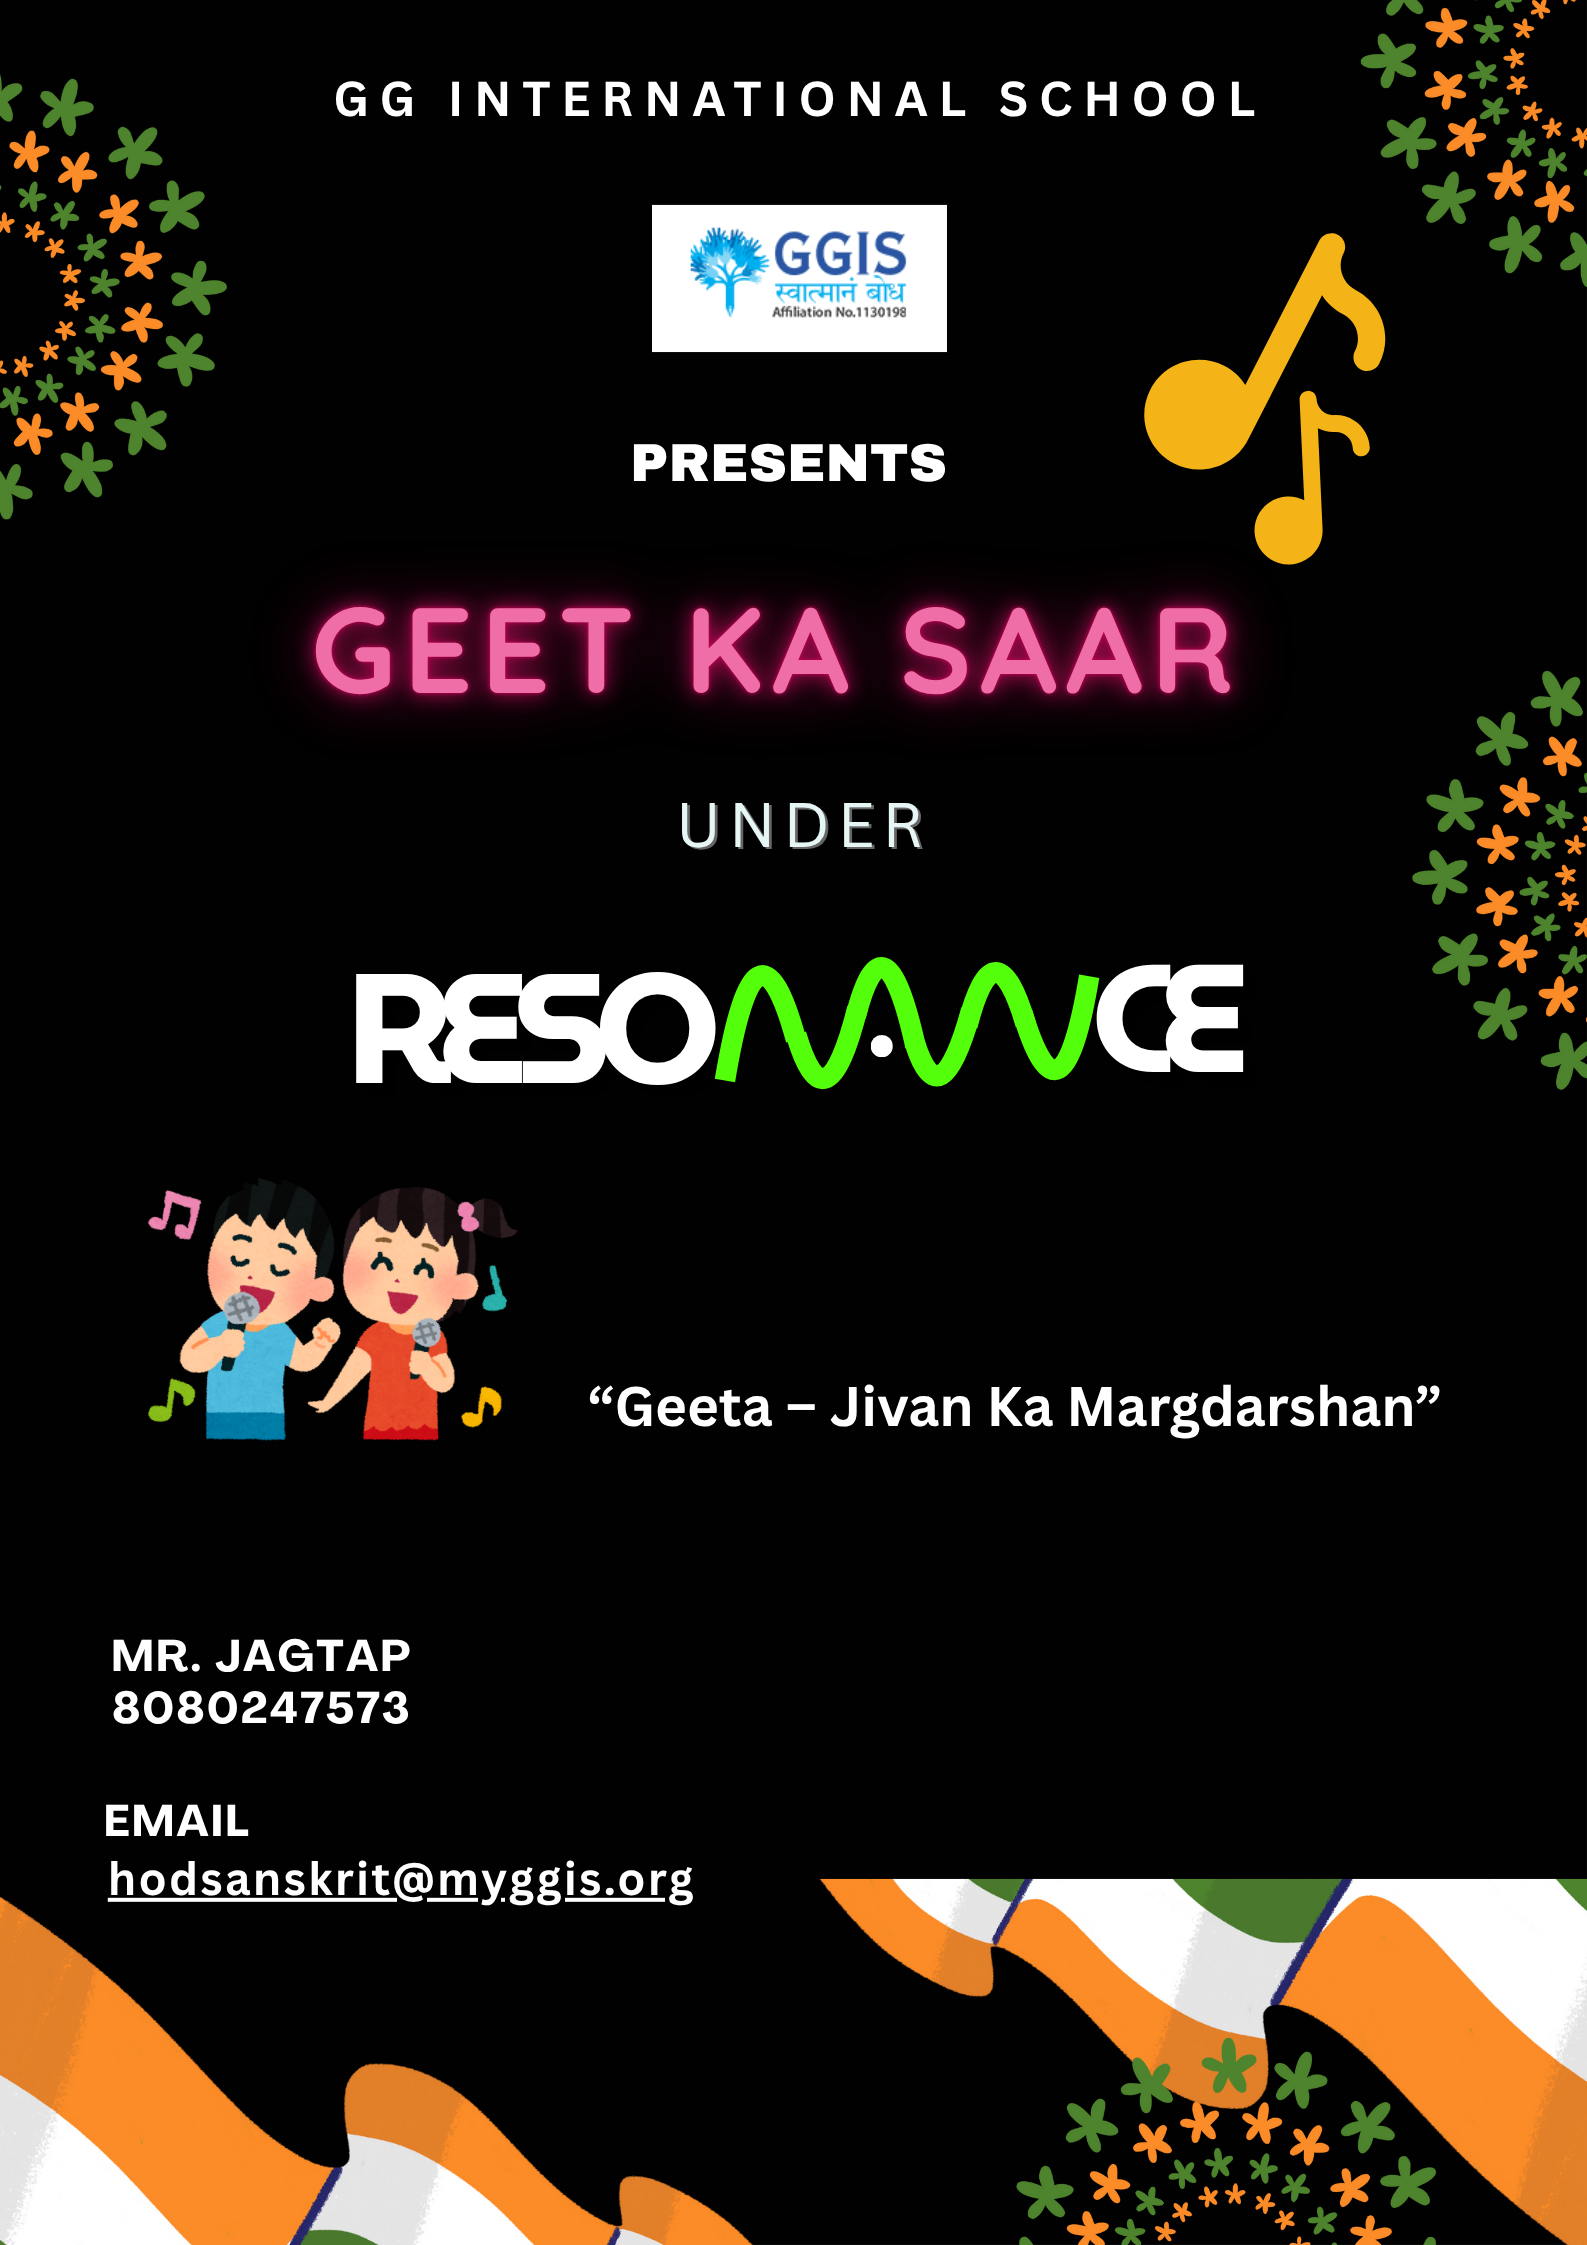
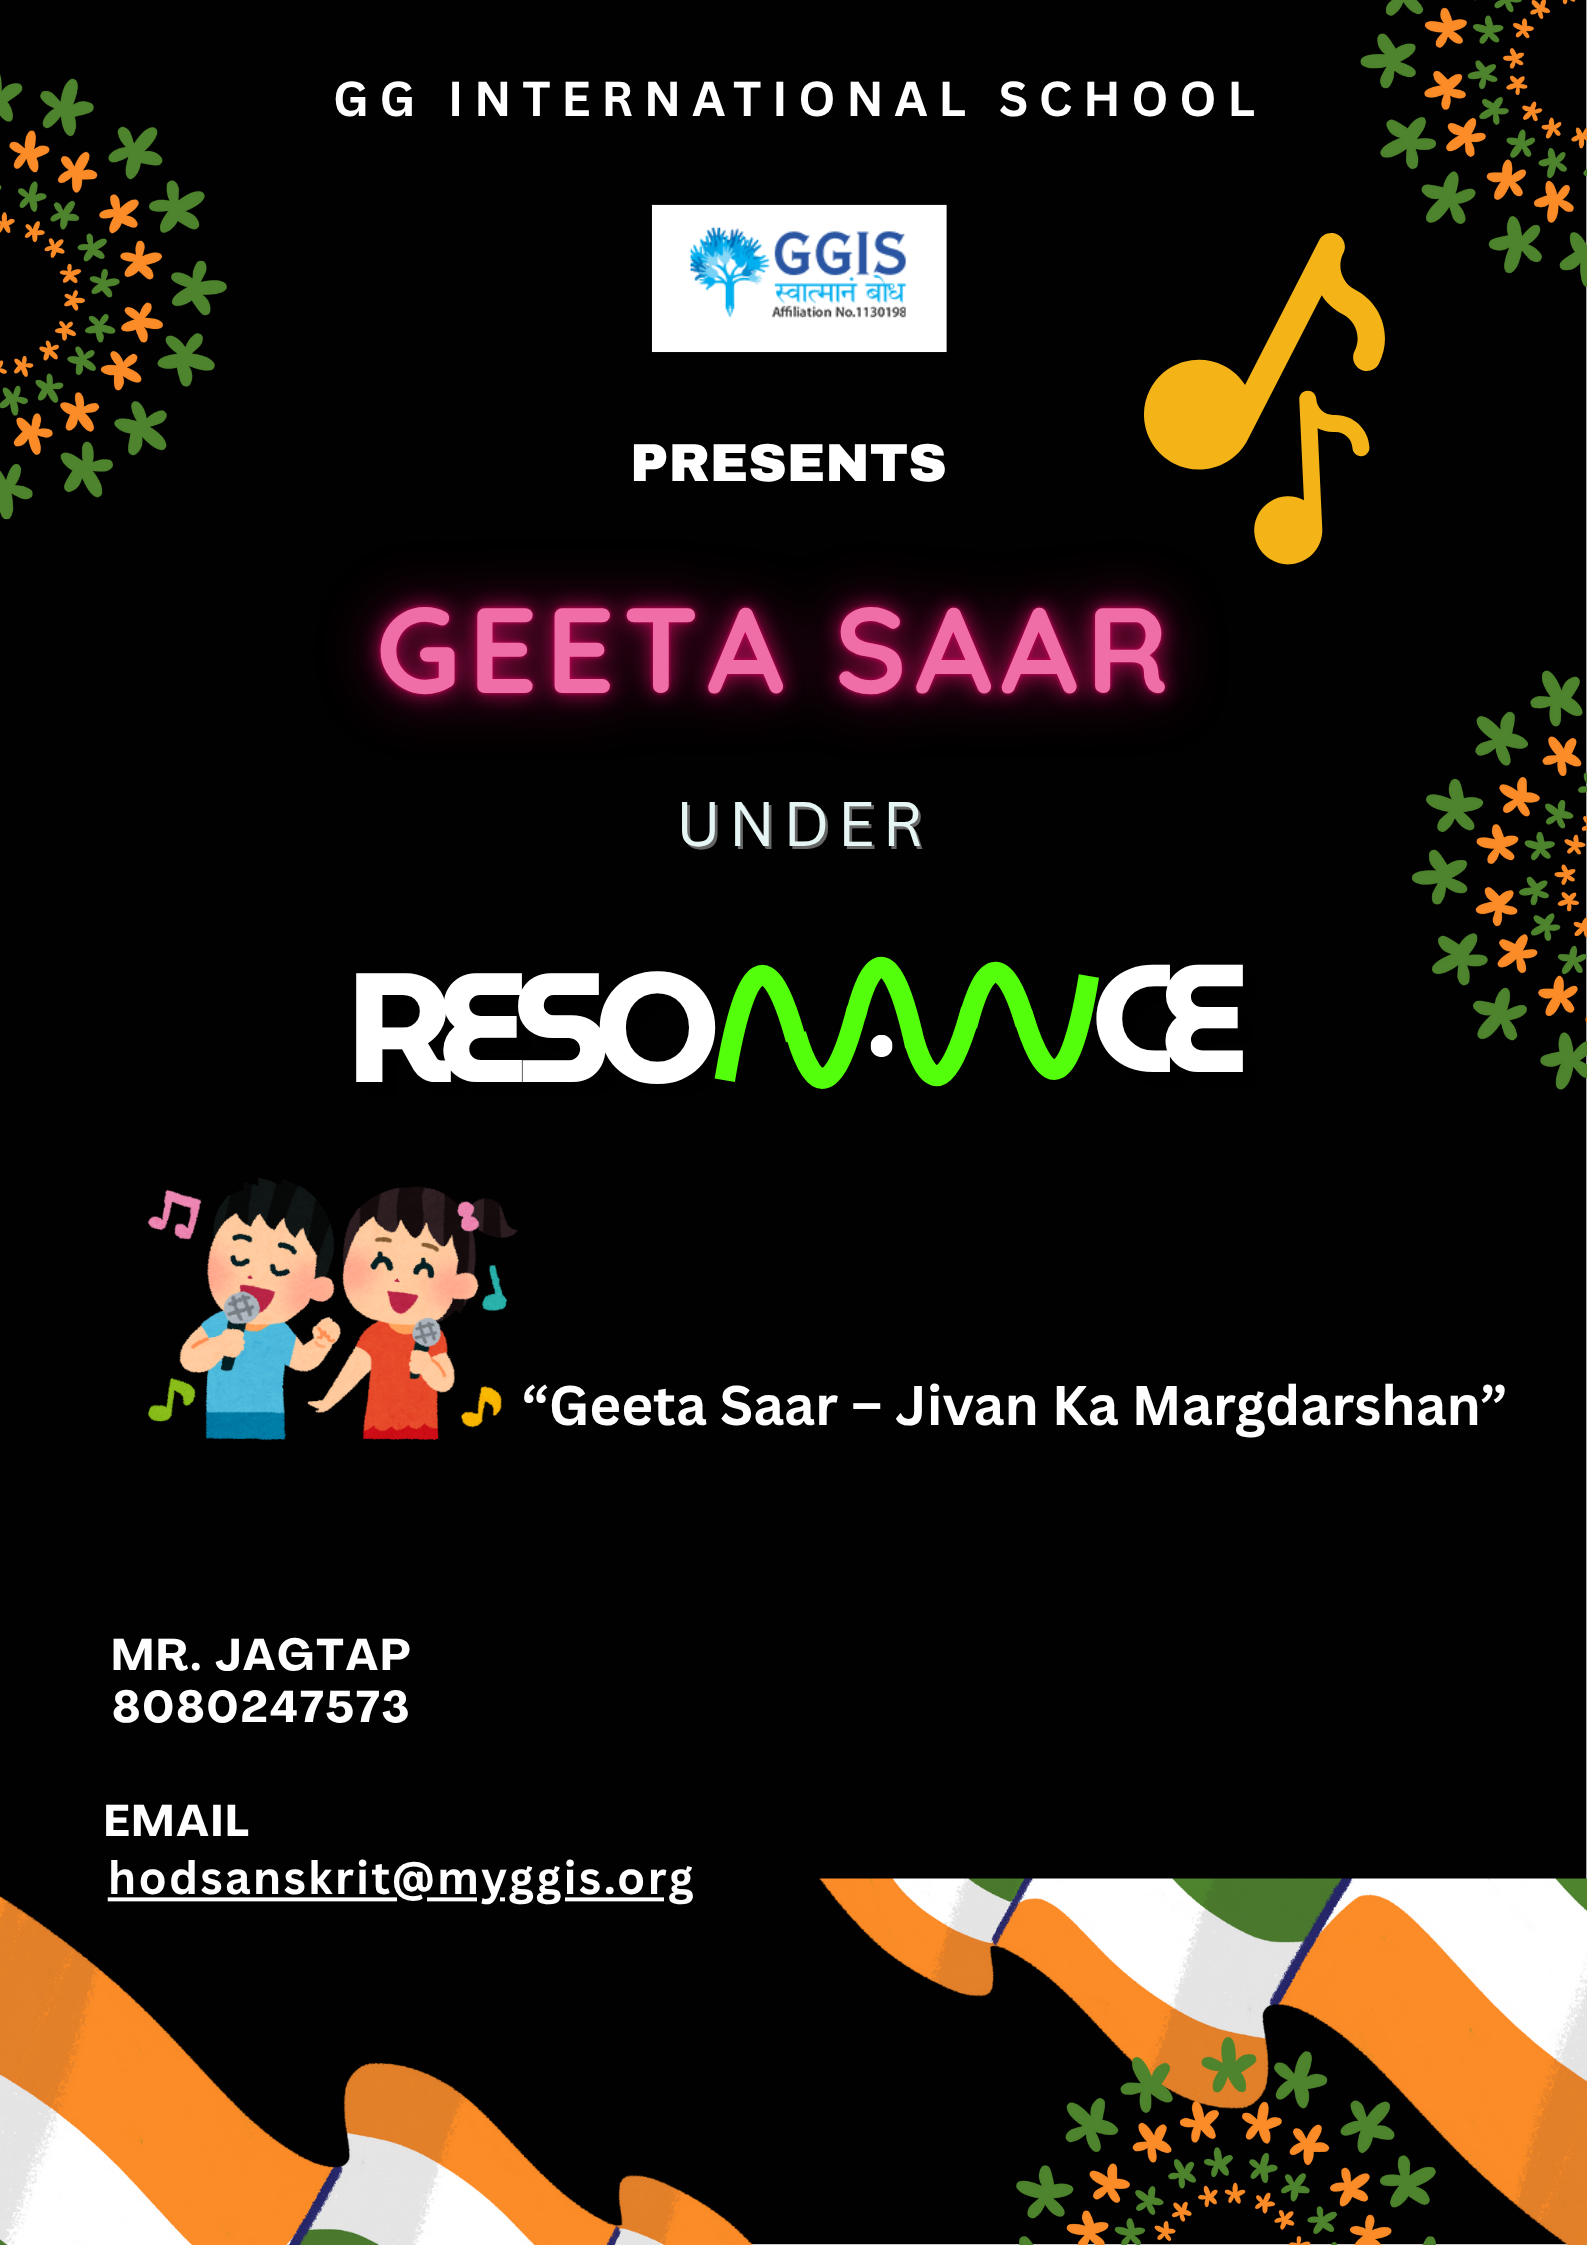
geeta saar poster updated

diff --git a/src/components/registerations/SchoolRegistration.js b/src/components/registerations/SchoolRegistration.js
@@ -15,6 +15,10 @@ const SchoolRegistration = () => {
     const location = useLocation();
 
     const auth = getAuth(firebaseApp);
+    const currentUser = auth.currentUser
+
+    console.log(currentUser);
+
 
     const eventData = Data.find((item) => item.path === `/${eventName}`);
 
@@ -39,6 +43,12 @@ const SchoolRegistration = () => {
         const unsubscribe = auth.onAuthStateChanged((currentUser) => {
             if (currentUser) {
                 setUserName(currentUser.displayName || "");
+                // ✅ Prefill teacher_name and teacher_email in formData
+                setFormData((prev) => ({
+                    ...prev,
+                    teacher_name: currentUser.displayName || "",
+                    teacher_email: currentUser.email || "",
+                }));
             } else {
                 console.log("User logged out in the middle. Redirecting...");
                 toast.error("Session expired. Please log in again.", {
@@ -53,6 +63,7 @@ const SchoolRegistration = () => {
         // Cleanup listener on unmount
         return () => unsubscribe();
     }, [auth, navigate]);
+
 
     // ✅ Warn user on browser back button / refresh / tab close
     useEffect(() => {
@@ -165,7 +176,7 @@ const SchoolRegistration = () => {
             );
 
             const response = await fetch(
-                "https://script.google.com/macros/s/AKfycbzdIPjBBQXvkqLVLYbydUegew4i4zOBWf1pL5YFM838gPu_YzH5xs7vzzF-n-bJPrJWEw/exec",
+                "https://script.google.com/macros/s/AKfycbzaeHqE4DhvmHYwt7qtKJ2PXl2cJ13VQECsvdOp_gZx4dqgDOC1Cf6-BmC6Vn7uFoAhIQ/exec",
                 {
                     method: "POST",
                     body: submissionData,
@@ -289,12 +300,13 @@ const SchoolRegistration = () => {
                             <input
                                 type="text"
                                 name="teacher_name"
-                                value={formData.teacher_name}
+                                value={currentUser.displayName}
                                 onChange={handleChange}
                                 placeholder="Enter teacher's name"
                                 className={errors.teacher_name ? "input-error" : ""}
+                                readOnly
                             />
-                            {errors.teacher_name && <small className="error-text">{errors.teacher_name}</small>}
+
                         </div>
                         <div className="form-group">
                             <label htmlFor="teacher_contact">Teacher Contact</label>
@@ -313,12 +325,13 @@ const SchoolRegistration = () => {
                             <input
                                 type="email"
                                 name="teacher_email"
-                                value={formData.teacher_email}
+                                value={currentUser.email}
                                 onChange={handleChange}
                                 placeholder="Enter teacher's email"
                                 className={errors.teacher_email ? "input-error" : ""}
+                                readOnly
                             />
-                            {errors.teacher_email && <small className="error-text">{errors.teacher_email}</small>}
+
                         </div>
                     </>
                 );
@@ -327,7 +340,7 @@ const SchoolRegistration = () => {
                     <>
                         <h3>Step 4: Upload Link</h3>
                         <div className="form-group">
-                            <label htmlFor="drive_link">Google Drive Link to Students List</label>
+                            <label htmlFor="drive_link">Paste the URL of Drive link which has the doc of students list on school letter head</label>
                             <h6 className="allowed-classes"> Kindly Note that you have select strictly {eventData?.allowedClasses}</h6>
                             <input
                                 type="url"

diff --git a/src/API/card-data.js b/src/API/card-data.js
@@ -147,14 +147,14 @@ const cardData = [
   {
     id: 5,
     zone: "Apni Boli",
-    event_name: "Geeta Ka Sar",
+    event_name: "Geeta Saar",
     date: "12th August, 2025",
     short_description:
       "Geeta – Jivan Ka Margdarshan is a soulful event where students recite verses from the Bhagavad Geeta, interpret their meanings, and connect them to real-life values and situations. It fosters spiritual understanding, reflection, and confident public speaking.",
     detailed_description:
       " Recitation and Reflection on the Teachings of the Bhagavad Geeta “Geeta – Jivan Ka Margdarshan” is a soulful recitation and interpretation event where students will present selected verses from the Bhagavad Geeta, explain their meanings, and thoughtfully relate them to real-life values, situations, and decisions in today’s world. The event aims to cultivate spiritual understanding, reflection, and moral insight while encouraging confident public speaking and deep personal connection with Indian philosophy.",
-    Type: "Team of 6",
-    allowedClasses: '2 participants from Grade 6 to 8(2 from each grade)',
+    Type: "Team of 2",
+    allowedClasses: '2 participants from Grade 6 to 8',
     venue: "GGIS Tathawade",
     time: "9.30 AM to 11.00 AM",
     studn1: "Mr. Jagtap",
@@ -175,7 +175,7 @@ const cardData = [
       "⦿ Light refreshments will be provided to all participants and teachers accompanying the students. However, all attendees must carry their OWN Lunch and water bottles."
     ],
     rulelink:
-      "https://drive.google.com/file/d/1ga8TUSZl5VY8DwxJyGTLKK1cSRkE3OB0/view?usp=drive_link",
+      "https://drive.google.com/file/d/1o2HgJKYONT0MGU-dr7ve-MiK0I1owFJc/view?usp=sharing",
     image: "./posters/gks.png",
     path: "/geeta-ka-sar",
     isOpen: true,
